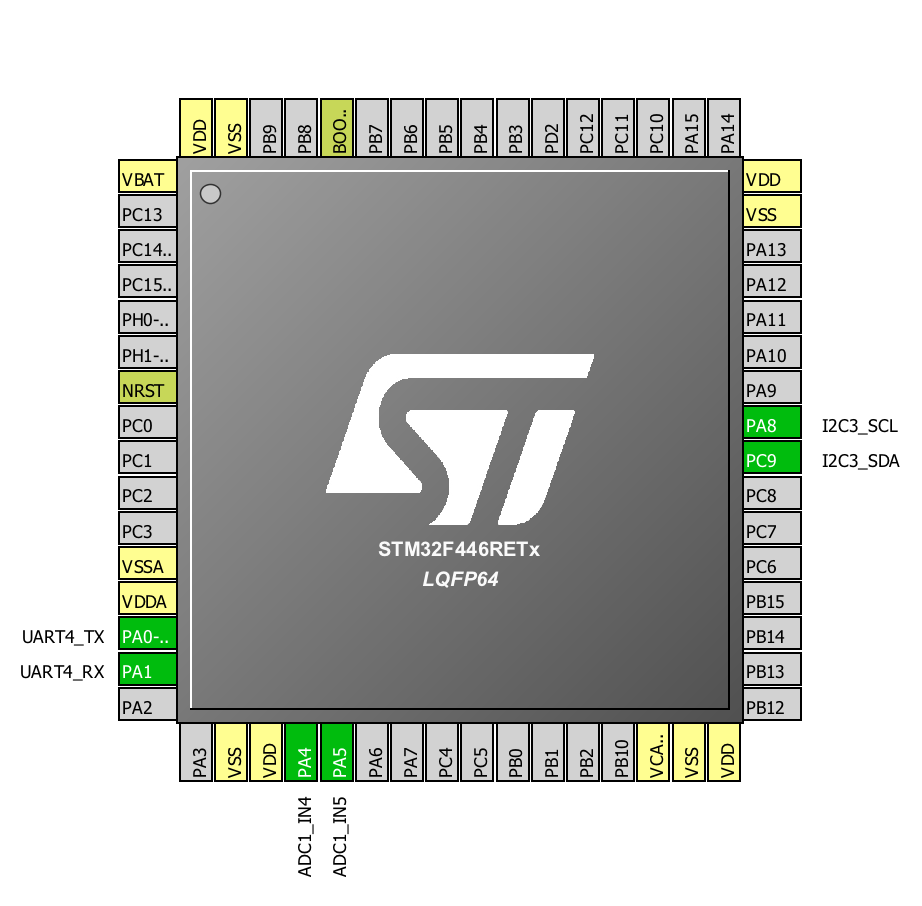
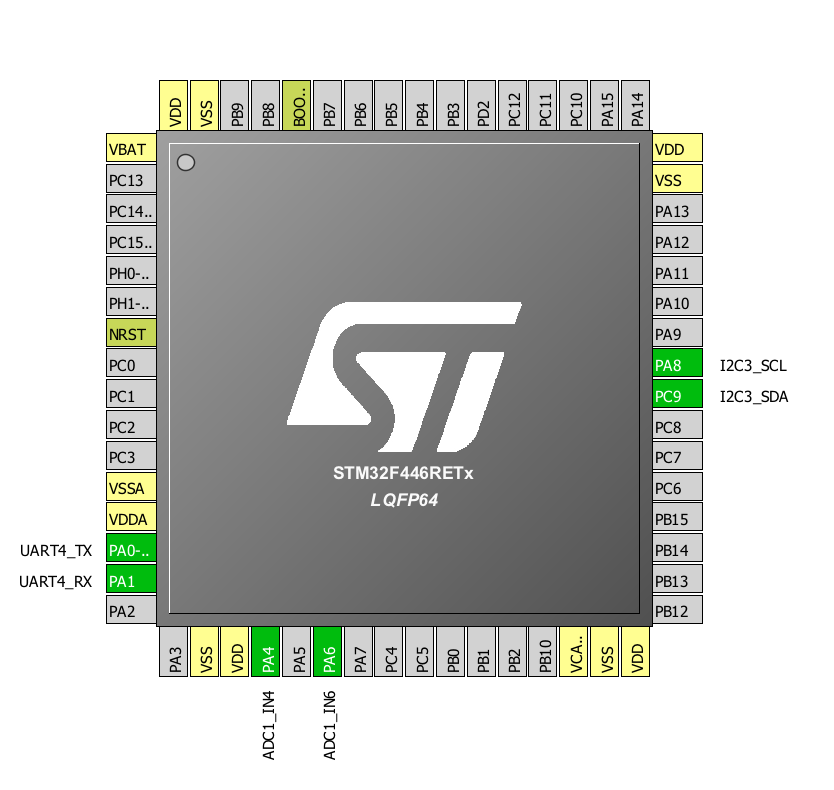
Fixed LED backpack, added retval to error handler, updated hardware config

Changed region(s): [[0.0, 0.0911, 0.9976, 0.9722], [0.3429, 0.3646, 0.6547, 0.6684]]

diff --git a/STM32F446/OvenTemp/Src/LEDBackpack.c b/STM32F446/OvenTemp/Src/LEDBackpack.c
@@ -13,6 +13,54 @@
 
 
 static const uint16_t alphafonttable[] = {
+    0b0000000000000001,
+    0b0000000000000010,
+    0b0000000000000100,
+    0b0000000000001000,
+    0b0000000000010000,
+    0b0000000000100000,
+    0b0000000001000000,
+    0b0000000010000000,
+    0b0000000100000000,
+    0b0000001000000000,
+    0b0000010000000000,
+    0b0000100000000000,
+    0b0001000000000000,
+    0b0010000000000000,
+    0b0100000000000000,
+    0b1000000000000000,
+    0b0000000000000000,
+    0b0000000000000000,
+    0b0000000000000000,
+    0b0000000000000000,
+    0b0000000000000000,
+    0b0000000000000000,
+    0b0000000000000000,
+    0b0000000000000000,
+    0b0001001011001001,
+    0b0001010111000000,
+    0b0001001011111001,
+    0b0000000011100011,
+    0b0000010100110000,
+    0b0001001011001000,
+    0b0011101000000000,
+    0b0001011100000000,
+    0b0000000000000000, //
+    0b0000000000000110, // !
+    0b0000001000100000, // "
+    0b0001001011001110, // #
+    0b0001001011101101, // $
+    0b0000110000100100, // %
+    0b0010001101011101, // &
+    0b0000010000000000, // '
+    0b0010010000000000, // (
+    0b0000100100000000, // )
+    0b0011111111000000, // *
+    0b0001001011000000, // +
+    0b0000100000000000, // ,
+    0b0000000011000000, // -
+    0b0000000000000000, // .
+    0b0000110000000000, // /
     0b0000110000111111, // 0
     0b0000000000000110, // 1
     0b0000000011011011, // 2
@@ -23,12 +71,84 @@ static const uint16_t alphafonttable[] = {
     0b0000000000000111, // 7
     0b0000000011111111, // 8
     0b0000000011101111, // 9
+    0b0001001000000000, // :
+    0b0000101000000000, // ;
+    0b0010010000000000, // <
+    0b0000000011001000, // =
+    0b0000100100000000, // >
+    0b0001000010000011, // ?
+    0b0000001010111011, // @
+    0b0000000011110111, // A
+    0b0001001010001111, // B
+    0b0000000000111001, // C
+    0b0001001000001111, // D
+    0b0000000011111001, // E
+    0b0000000001110001, // F
+    0b0000000010111101, // G
+    0b0000000011110110, // H
+    0b0001001000000000, // I
+    0b0000000000011110, // J
+    0b0010010001110000, // K
+    0b0000000000111000, // L
+    0b0000010100110110, // M
+    0b0010000100110110, // N
+    0b0000000000111111, // O
+    0b0000000011110011, // P
+    0b0010000000111111, // Q
+    0b0010000011110011, // R
+    0b0000000011101101, // S
+    0b0001001000000001, // T
+    0b0000000000111110, // U
+    0b0000110000110000, // V
+    0b0010100000110110, // W
+    0b0010110100000000, // X
+    0b0001010100000000, // Y
+    0b0000110000001001, // Z
+    0b0000000000111001, // [
+    0b0010000100000000, //
+    0b0000000000001111, // ]
+    0b0000110000000011, // ^
+    0b0000000000001000, // _
+    0b0000000100000000, // `
+    0b0001000001011000, // a
+    0b0010000001111000, // b
+    0b0000000011011000, // c
+    0b0000100010001110, // d
+    0b0000100001011000, // e
+    0b0000000001110001, // f
+    0b0000010010001110, // g
+    0b0001000001110000, // h
+    0b0001000000000000, // i
+    0b0000000000001110, // j
+    0b0011011000000000, // k
+    0b0000000000110000, // l
+    0b0001000011010100, // m
+    0b0001000001010000, // n
+    0b0000000011011100, // o
+    0b0000000101110000, // p
+    0b0000010010000110, // q
+    0b0000000001010000, // r
+    0b0010000010001000, // s
+    0b0000000001111000, // t
+    0b0000000000011100, // u
+    0b0010000000000100, // v
+    0b0010100000010100, // w
+    0b0010100011000000, // x
+    0b0010000000001100, // y
+    0b0000100001001000, // z
+    0b0000100101001001, // {
+    0b0001001000000000, // |
+    0b0010010010001001, // }
+    0b0000010100100000, // ~
+    0b0011111111111111
 };
 
-static const uint16_t alpha_point_mask = 0b1000000000000000;
+char str_buff[32];
+
+static const uint16_t alpha_point_mask = (1<<14);
 
 static uint8_t i2c_addr;
-static uint16_t displaybuffer[4];
+static uint16_t displaybuffer[8];
 
 extern I2C_HandleTypeDef hI2C3;
 
@@ -38,9 +158,9 @@ void disp_init(uint8_t addr)
 
     // turn on oscillator
     uint8_t data = 0x21;
-    HAL_StatusTypeDef retval = HAL_I2C_Master_Transmit(&hI2C3, (uint16_t)i2c_addr, &data, 1, 5);
+    HAL_StatusTypeDef retval = HAL_I2C_Master_Transmit(&hI2C3, (uint16_t)i2c_addr, &data, 1, 500);
     if (retval != HAL_OK) {
-        Error_Handler();
+        Error_Handler_with_retval(__FILE__, __LINE__, retval);
     }
     disp_blinkRate(HT16K33_BLINK_OFF);
 
@@ -73,7 +193,7 @@ void disp_blinkRate(uint8_t b)
 }
 
 void disp_clear(void) {
-    for (uint8_t i = 0; i < 4; i++) {
+    for (uint8_t i = 0; i < 8; i++) {
         displaybuffer[i] = 0;
     }
 }
@@ -83,7 +203,7 @@ void disp_writeDigit_raw(uint8_t n, uint16_t bitmask) {
 }
 
 void disp_writeDigit_value(uint8_t n, uint8_t number, bool point) {
-    displaybuffer[n] = alphafonttable[number];
+    displaybuffer[n] = alphafonttable[number + 0x30];
     if (point) {
         displaybuffer[n] |= alpha_point_mask;
     }
@@ -92,14 +212,14 @@ void disp_writeDigit_value(uint8_t n, uint8_t number, bool point) {
 void disp_writeDisplay(void)
 {
     // Build up the payload. Start with 0
-    uint8_t data[9];
+    uint8_t data[17];
     data[0] = 0;
-    for (uint8_t i = 0; i < 4; i++) {
-        data[i + 1] = displaybuffer[i] & 0xFF;
-        data[i + 2] = displaybuffer[i] >> 8;
+    for (uint8_t i = 0; i < 8; i++) {
+        data[2*i + 1] = displaybuffer[i] & 0xFF;
+        data[2*i + 2] = displaybuffer[i] >> 8;
     }
     HAL_StatusTypeDef retval = HAL_I2C_Master_Transmit(&hI2C3, (uint16_t)i2c_addr,
-                                                       data, 8, 5);
+                                                       data, 17, 5);
     if (retval != HAL_OK) {
         Error_Handler();
     }

diff --git a/STM32F446/OvenTemp/Src/stm32f4xx_hal_msp.c b/STM32F446/OvenTemp/Src/stm32f4xx_hal_msp.c
@@ -91,9 +91,9 @@ void HAL_ADC_MspInit(ADC_HandleTypeDef* hadc)
 
     /**ADC1 GPIO Configuration
     PA4     ------> ADC1_IN4
-    PA5     ------> ADC1_IN5
+    PA6     ------> ADC1_IN6
     */
-    GPIO_InitStruct.Pin = GPIO_PIN_4|GPIO_PIN_5;
+    GPIO_InitStruct.Pin = GPIO_PIN_4 | GPIO_PIN_6;
     GPIO_InitStruct.Mode = GPIO_MODE_ANALOG;
     GPIO_InitStruct.Pull = GPIO_NOPULL;
     HAL_GPIO_Init(GPIOA, &GPIO_InitStruct);
@@ -137,9 +137,9 @@ void HAL_ADC_MspDeInit(ADC_HandleTypeDef* hadc)
 
     /**ADC1 GPIO Configuration
     PA4     ------> ADC1_IN4
-    PA5     ------> ADC1_IN5
+    PA6     ------> ADC1_IN6
     */
-    HAL_GPIO_DeInit(GPIOA, GPIO_PIN_4|GPIO_PIN_5);
+    HAL_GPIO_DeInit(GPIOA, GPIO_PIN_4 | GPIO_PIN_6);
 
     /* ADC1 DMA DeInit */
     HAL_DMA_DeInit(hadc->DMA_Handle);
@@ -155,62 +155,48 @@ void HAL_ADC_MspDeInit(ADC_HandleTypeDef* hadc)
 
 void HAL_I2C_MspInit(I2C_HandleTypeDef* hi2c)
 {
+    GPIO_InitTypeDef GPIO_InitStruct;
+    if(hi2c->Instance == I2C3)
+    {
 
-  GPIO_InitTypeDef GPIO_InitStruct;
-  if(hi2c->Instance==I2C3)
-  {
-  /* USER CODE BEGIN I2C3_MspInit 0 */
+        /**I2C3 GPIO Configuration
+        PA8   ------> I2C3_SCL
+        PC9   ------> I2C3_SDA
+        */
+        GPIO_InitStruct.Pin = GPIO_PIN_8;
+        GPIO_InitStruct.Mode = GPIO_MODE_AF_OD;
+        GPIO_InitStruct.Pull = GPIO_PULLUP;
+        GPIO_InitStruct.Speed = GPIO_SPEED_FREQ_VERY_HIGH;
+        GPIO_InitStruct.Alternate = GPIO_AF4_I2C3;
+        HAL_GPIO_Init(GPIOA, &GPIO_InitStruct);
 
-  /* USER CODE END I2C3_MspInit 0 */
+        // Now SDA
+        GPIO_InitStruct.Pin = GPIO_PIN_9;
+        HAL_GPIO_Init(GPIOC, &GPIO_InitStruct);
 
-    /**I2C3 GPIO Configuration
-    PA8     ------> I2C3_SCL
-    PC9     ------> I2C3_SDA
-    */
-    GPIO_InitStruct.Pin = GPIO_PIN_8;
-    GPIO_InitStruct.Mode = GPIO_MODE_AF_OD;
-    GPIO_InitStruct.Pull = GPIO_PULLUP;
-    GPIO_InitStruct.Speed = GPIO_SPEED_FREQ_VERY_HIGH;
-    GPIO_InitStruct.Alternate = GPIO_AF4_I2C3;
-    HAL_GPIO_Init(GPIOA, &GPIO_InitStruct);
-
-    // Now SDA
-    GPIO_InitStruct.Pin = GPIO_PIN_9;
-    HAL_GPIO_Init(GPIOC, &GPIO_InitStruct);
-
-    /* Peripheral clock enable */
-    __HAL_RCC_I2C3_CLK_ENABLE();
-  /* USER CODE BEGIN I2C3_MspInit 1 */
-
-  /* USER CODE END I2C3_MspInit 1 */
-  }
-
+        /* Peripheral clock enable */
+        __HAL_RCC_I2C3_CLK_ENABLE();
+    }
 }
 
 void HAL_I2C_MspDeInit(I2C_HandleTypeDef* hi2c)
 {
+    if(hi2c->Instance == I2C3)
+    {
+        /* Peripheral clock disable */
+        __HAL_RCC_I2C3_CLK_DISABLE();
 
-  if(hi2c->Instance==I2C3)
-  {
-  /* USER CODE BEGIN I2C3_MspDeInit 0 */
+        /**I2C3 GPIO Configuration
+        PA8  ------> I2C3_SCL
+        PC9  ------> I2C3_SDA
+        */
+        HAL_GPIO_DeInit(GPIOA, GPIO_PIN_8);
+        HAL_GPIO_DeInit(GPIOC, GPIO_PIN_9);
 
-  /* USER CODE END I2C3_MspDeInit 0 */
-    /* Peripheral clock disable */
-    __HAL_RCC_I2C3_CLK_DISABLE();
-
-    /**I2C3 GPIO Configuration
-    PB6     ------> I2C3_SCL
-    PB7     ------> I2C3_SDA
-    */
-    HAL_GPIO_DeInit(GPIOB, GPIO_PIN_6|GPIO_PIN_7);
-
-    /* I2C3 interrupt DeInit */
-    HAL_NVIC_DisableIRQ(I2C3_EV_IRQn);
-    HAL_NVIC_DisableIRQ(I2C3_ER_IRQn);
-  /* USER CODE BEGIN I2C3_MspDeInit 1 */
-
-  /* USER CODE END I2C3_MspDeInit 1 */
-  }
+        /* I2C3 interrupt DeInit */
+        HAL_NVIC_DisableIRQ(I2C3_EV_IRQn);
+        HAL_NVIC_DisableIRQ(I2C3_ER_IRQn);
+    }
 
 }
 
@@ -261,8 +247,8 @@ void HAL_UART_MspInit(UART_HandleTypeDef* huart)
     __HAL_RCC_UART4_CLK_ENABLE();
 
     /**UART4 GPIO Configuration
-    PA0-WKUP     ------> UART4_TX
-    PA1     ------> UART4_RX
+    PA0-WKUP ------> UART4_TX
+    PA1      ------> UART4_RX
     */
     GPIO_InitStruct.Pin = GPIO_PIN_0|GPIO_PIN_1;
     GPIO_InitStruct.Mode = GPIO_MODE_AF_PP;

diff --git a/STM32F446/OvenTemp/Src/hardware.c b/STM32F446/OvenTemp/Src/hardware.c
@@ -120,7 +120,7 @@ void hw_ADC1_Init(void)
     /** Configure for the selected ADC regular channel its corresponding rank in
         the sequencer and its sample time. */
     // Pin A4  (TODO: Vout from thermocouple?)
-    sConfig.Channel = ADC_CHANNEL_5;
+    sConfig.Channel = ADC_CHANNEL_6;
     sConfig.Rank = 1;
     sConfig.SamplingTime = ADC_SAMPLETIME_3CYCLES;
     if (HAL_ADC_ConfigChannel(&hadc1, &sConfig) != HAL_OK)
@@ -242,7 +242,33 @@ void hw_DMA_Init(void)
 */
 void hw_GPIO_Init(void)
 {
+    GPIO_InitTypeDef GPIO_InitStruct;
+
     /* GPIO Ports Clock Enable */
     __HAL_RCC_GPIOA_CLK_ENABLE();
-    __HAL_RCC_GPIOB_CLK_ENABLE();
+    // __HAL_RCC_GPIOB_CLK_ENABLE();
+    __HAL_RCC_GPIOC_CLK_ENABLE();
+
+    // PA5 is LD2 LED
+    GPIO_InitStruct.Pin = GPIO_PIN_5;
+    GPIO_InitStruct.Mode = GPIO_MODE_OUTPUT_PP;
+    GPIO_InitStruct.Pull = GPIO_NOPULL;
+    GPIO_InitStruct.Speed = GPIO_SPEED_FREQ_HIGH;
+    // GPIO_InitStruct.Alternate = 0;
+    HAL_GPIO_Init(GPIOA, &GPIO_InitStruct);
+}
+
+
+void hw_LED_setValue(uint8_t value)
+{
+    if (value == 0) {
+        HAL_GPIO_WritePin(GPIOA, GPIO_PIN_5, GPIO_PIN_RESET);
+    } else {
+        HAL_GPIO_WritePin(GPIOA, GPIO_PIN_5, GPIO_PIN_SET);
+    }
+}
+
+void hw_LED_toggle(void)
+{
+    HAL_GPIO_TogglePin(GPIOA, GPIO_PIN_5);
 }

diff --git a/STM32F446/OvenTemp/Inc/hardware.h b/STM32F446/OvenTemp/Inc/hardware.h
@@ -7,6 +7,7 @@
 #pragma once
 
 #include <stdbool.h>
+#include <stdint.h>
 #include "common.h"
 
 
@@ -18,3 +19,7 @@ void hw_I2C3_Init(void);
 void hw_RTC_Init(void);
 void hw_UART4_Init(void);
 void hw_NVIC_Init(void);
+
+
+void hw_LED_setValue(uint8_t value);
+void hw_LED_toggle(void);

diff --git a/STM32F446/OvenTemp/Inc/common.h b/STM32F446/OvenTemp/Inc/common.h
@@ -30,4 +30,6 @@ typedef enum {
 
 void _Error_Handler(char *, int);
 
+void Error_Handler_with_retval(char * file, int line, int retval);
+
 #define Error_Handler() _Error_Handler(__FILE__, __LINE__)

diff --git a/STM32F446/OvenTemp/Inc/LEDBackpack.h b/STM32F446/OvenTemp/Inc/LEDBackpack.h
@@ -9,7 +9,7 @@
 #include <stdint.h>
 #include <stdbool.h>
 
-#define DISP_I2C_ADDR  (0x70)
+#define DISP_I2C_ADDR  (0x70 << 1)
 
 #define LED_ON 1
 #define LED_OFF 0
